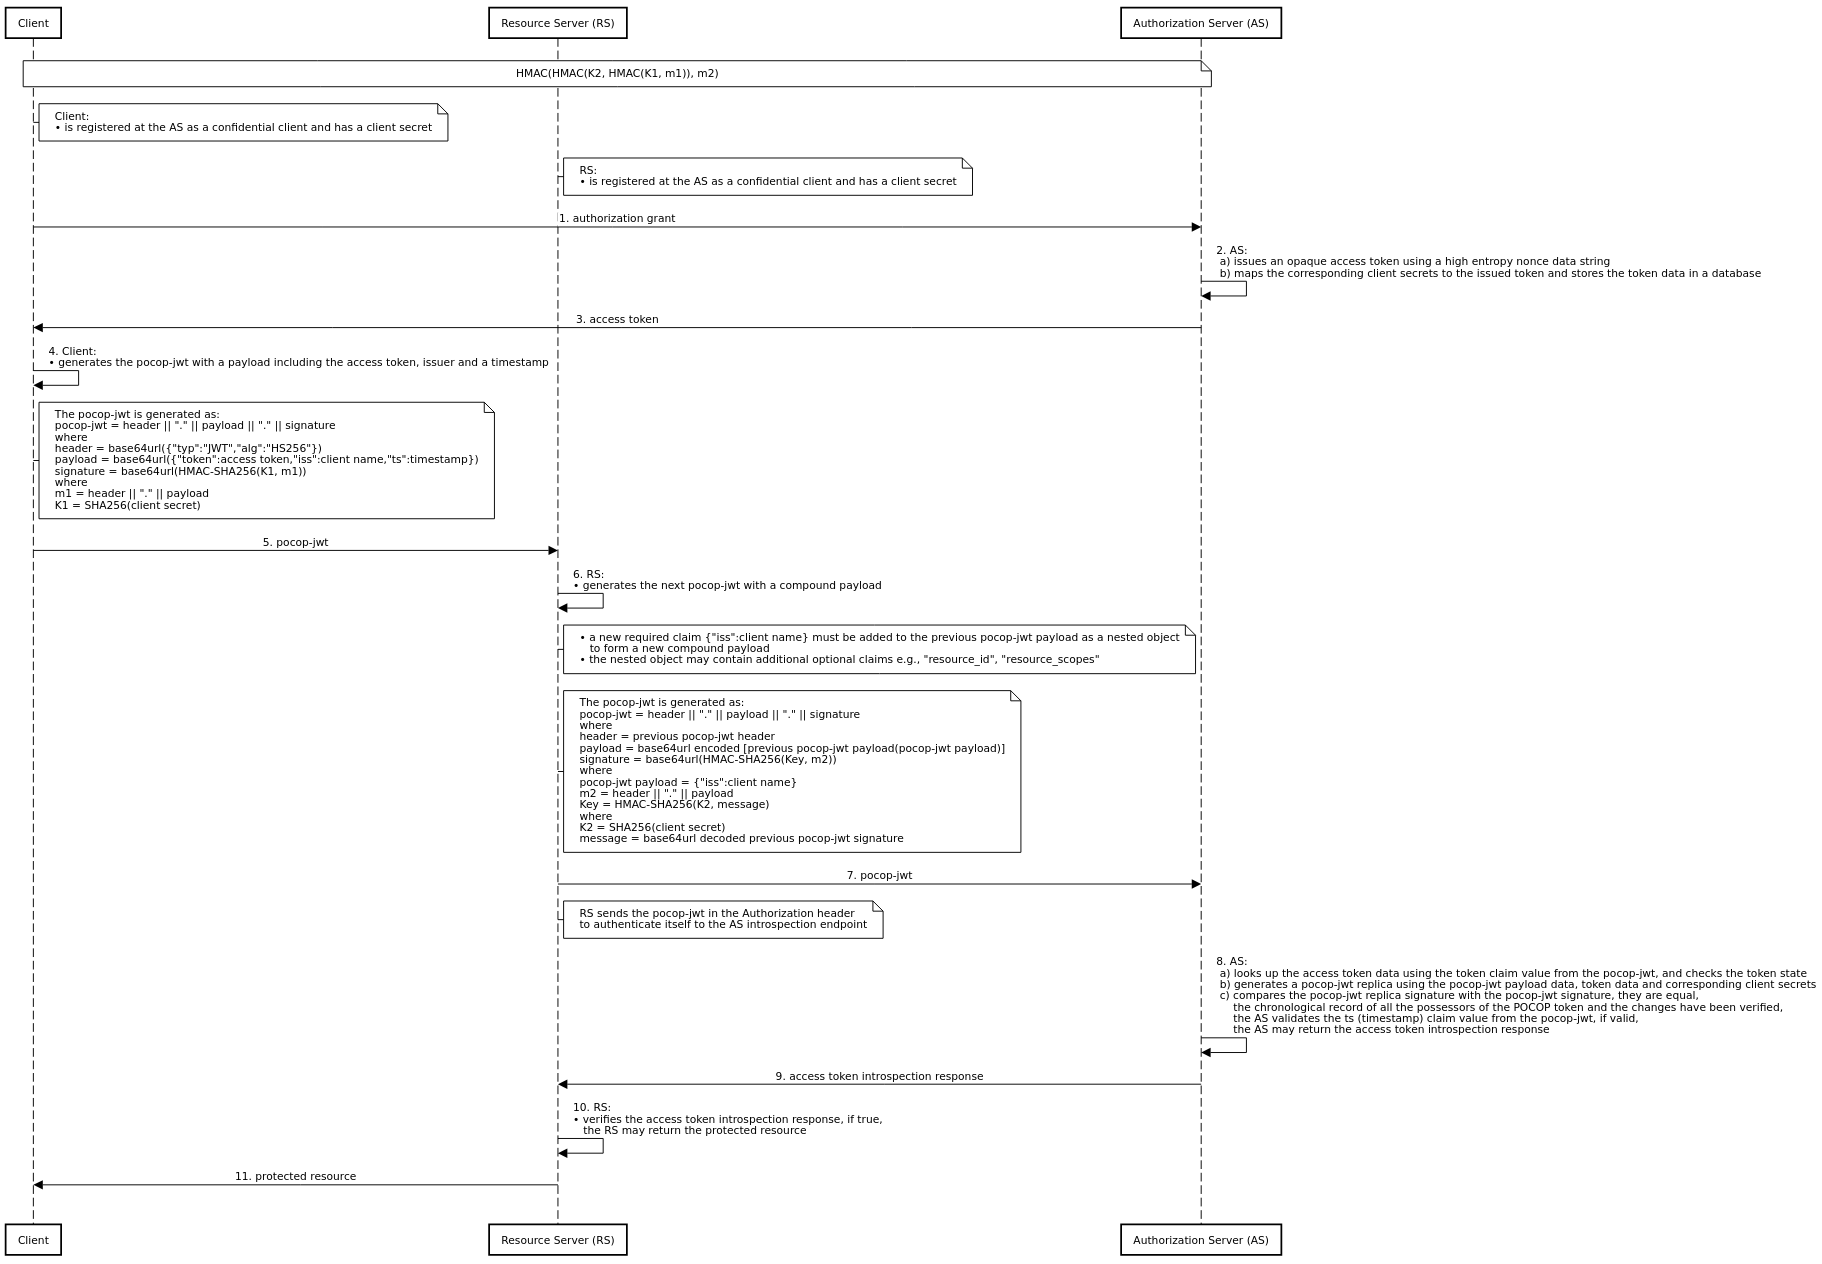
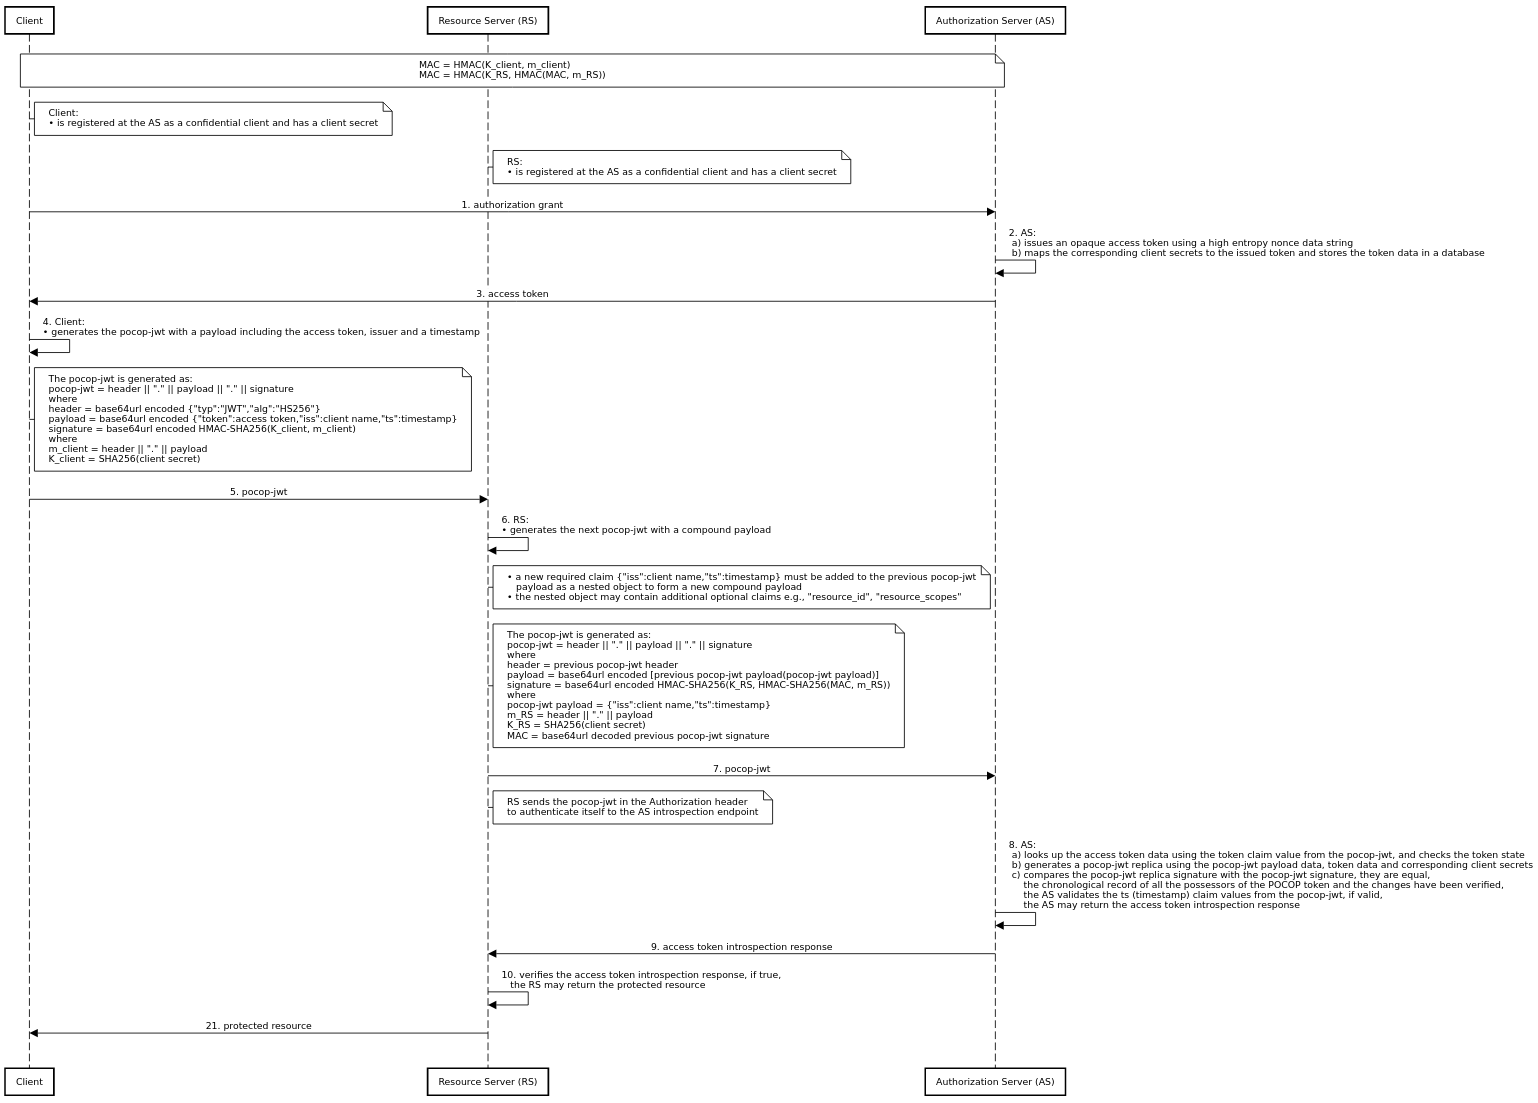
cleanup

diff --git a/README.md b/README.md
@@ -125,7 +125,7 @@ Healthcare and enterprise cross-domain services e.g. email, file sharing, instan
 
 ## Abstract
 
-This document introduces POCOP tokens based on a nested, chained HMACs construction to provide chained authenticity and integrity protection.
+This document introduces a POCOP mechanism based on a nested, chained HMACs construction to provide chained authenticity and integrity protection.
 
 ## Introduction
 
@@ -135,68 +135,65 @@ Bearer tokens are vulnerable at rest and in transit when an attacker is able to 
 
 **Chained proof-of-possession (authenticity)**
 
-HMAC(K<sub><i>3</i></sub>, HMAC(K<sub><i>2</i></sub>, HMAC(K<sub><i>1</i></sub>, m<sub><i>1</i></sub>)))
+MAC = HMAC(K<sub><i>3</i></sub>, HMAC(K<sub><i>2</i></sub>, HMAC(K<sub><i>1</i></sub>, m<sub><i>1</i></sub>)))
 
 **Chained message checksum (integrity protection)**
 
-HMAC(HMAC(HMAC(K<sub><i>1</i></sub>, m<sub><i>1</i></sub>), m<sub><i>2</i></sub>, m<sub><i>3</i></sub>))
+MAC = HMAC(HMAC(HMAC(K<sub><i>1</i></sub>, m<sub><i>1</i></sub>), m<sub><i>2</i></sub>, m<sub><i>3</i></sub>))
 
 **Chained authenticity and integrity protection**
 
-These nested, chained HMACs constructions applied on tokens or cookies may be used to implement both new authorization protocols and to enhance existing ones.
+MAC = HMAC(K<sub><i>RS2</i></sub>, HMAC(HMAC(K<sub><i>RS1</i></sub>, HMAC(HMAC(K<sub><i>client</i></sub>, m<sub><i>client</i></sub>), m<sub><i>RS1</i></sub>)), m<sub><i>RS2</i></sub>))
 
-**HMACs example of AS, client, RS1 and RS2 authenticity and integrity protection chaining**
+broken down into individual MACs
 
-* chained authenticity
+MAC = HMAC(K<sub><i>client</i></sub>, m<sub><i>client</i></sub>)
+MAC = HMAC(K<sub><i>RS1</i></sub>, HMAC(MAC, m<sub><i>RS1</i></sub>))
+MAC = HMAC(K<sub><i>RS2</i></sub>, HMAC(MAC, m<sub><i>RS2</i></sub>))
 
-MAC<sub><i>RS2</i></sub> = HMAC(K<sub><i>RS2</i></sub>, HMAC(K<sub><i>RS1</i></sub>, HMAC(K<sub><i>client</i></sub>, NONCE<sub><i>AS</i></sub>)))
-
-* chained integrity protection compatible with Macaroons
-
-MAC =  HMAC(HMAC(HMAC(MAC<sub><i>RS2</i></sub>, NONCE<sub><i>AS</i></sub>), MAC<sub><i>client</i></sub> \|\| data<sub><i>client</i></sub>), MAC<sub><i>RS1</i></sub> \|\| data<sub><i>RS1</i></sub>)
-
-* chained authenticity and integrity protection table
-
-| Possessor | Public data | MAC route | MAC data
-| --- | --- | --- | --- |
-| AS| NONCE<sub><i>AS</i></sub> | | MAC = HMAC(MAC<sub><i>RS2</i></sub>, NONCE<sub><i>AS</i></sub>)
-| client | MAC<sub><i>client</i></sub> | MAC<sub><i>client</i></sub> = HMAC(K<sub><i>client</i></sub>, NONCE<sub><i>AS</i></sub>)
-| client | data<sub><i>client</i></sub> | | MAC = HMAC(MAC, MAC<sub><i>client</i></sub> \|\| data<sub><i>client</i></sub>)
-| RS1 | MAC<sub><i>RS1</i></sub> | MAC<sub><i>RS1</i></sub> = HMAC(K<sub><i>RS1</i></sub>, MAC<sub><i>client</i></sub>)
-| RS1 | data<sub><i>RS1</i></sub> | | MAC = HMAC(MAC, MAC<sub><i>RS1</i></sub> \|\| data<sub><i>RS1</i></sub>)
-| RS2 | | MAC<sub><i>RS2</i></sub> = HMAC(K<sub><i>RS2</i></sub>, MAC<sub><i>RS1</i></sub>)
-
-WARNING: The authenticity of public data is lost!
-
-**Other hybrid chain HMACs constructions to protect authenticity and integrity**
-
-HMAC(HMAC(K<sub><i>3</i></sub>, HMAC(HMAC(K<sub><i>2</i></sub>, HMAC(K<sub><i>1</i></sub>, m<sub><i>1</i></sub>)), m<sub><i>2</i></sub>)), m<sub><i>3</i></sub>)
-
-HMAC(K<sub><i>3</i></sub>, HMAC(HMAC(K<sub><i>2</i></sub>, HMAC(HMAC(K<sub><i>1</i></sub>, m<sub><i>1</i></sub>), m<sub><i>2</i></sub>)), m<sub><i>3</i></sub>))
+These nested, chained HMACs constructions applied on tokens, claims, tickets or cookies may be used to implement both new authorization protocols and to enhance existing ones.
 
 ## Use Patterns
 
-OAuth2 and POCOP tokens.
+### OAuth2 POCOP Tokens
 
-### OAuth2 POCOP Access Tokens
+**OAuth2 POCOP Access Tokens**
 
 ![pocop-access-tokens](./images/pocop-access-tokens.png)
 
-**Prerequisites**
-
-**Steps**
-
-### OAuth2 POCOP Refresh Tokens
+**OAuth2 POCOP Refresh Tokens**
 
 ![pocop-refresh-tokens](./images/pocop-refresh-tokens.png)
 
-**Prerequisites**
+### UMA POCOP Tickets
 
-**Steps**
+Chained Resource Servers (TBD)
+
+### Macaroons POCOP Claims
+
+The individual messages (m<sub><i>client</i></sub>, m<sub><i>RS1</i></sub>, m<sub><i>RS2</i></sub>) consist of Macaroons-first-party-caveats-like chained claims, using respective K<sub><i>client</i></sub>, K<sub><i>RS1</i></sub>, K<sub><i>RS2</i></sub> root keys.
+
+MAC<sub><i>m_client</i></sub> = HMAC(K<sub><i>client</i></sub>, claim1<sub><i>client</i></sub>)
+MAC<sub><i>m_client</i></sub> = HMAC(MAC<sub><i>m_client</i></sub>, claim2<sub><i>client</i></sub>)
+MAC<sub><i>m_client</i></sub> = HMAC(MAC<sub><i>m_client</i></sub>, claim3<sub><i>client</i></sub>)
+MAC<sub><i>m_client</i></sub> = HMAC(MAC<sub><i>m_client</i></sub>, claim4<sub><i>client</i></sub>)
+
+MAC<sub><i>m_RS1</i></sub> = HMAC(K<sub><i>RS1</i></sub>, claim1<sub><i>RS1</i></sub>)
+MAC<sub><i>m_RS1</i></sub> = HMAC(MAC<sub><i>m_RS1</i></sub>, claim2<sub><i>RS1</i></sub>)
+
+MAC<sub><i>m_RS2</i></sub> = HMAC(K<sub><i>RS2</i></sub>, claim1<sub><i>RS2</i></sub>)
+MAC<sub><i>m_RS2</i></sub> = HMAC(MAC<sub><i>m_RS2</i></sub>, claim2<sub><i>RS2</i></sub>)
+MAC<sub><i>m_RS2</i></sub> = HMAC(MAC<sub><i>m_RS2</i></sub>, claim3<sub><i>RS2</i></sub>)
+
+The MAC<sub><i>m_client</i></sub>, MAC<sub><i>m_RS1</i></sub> and MAC<sub><i>m_RS2</i></sub> are chained using the POCOP mechanism.
+
+MAC = HMAC(K<sub><i>client</i></sub>, MAC<sub><i>m_client</i></sub>)
+MAC = HMAC(K<sub><i>RS1</i></sub>, HMAC(MAC, MAC<sub><i>m_RS1</i></sub>))
+MAC = HMAC(K<sub><i>RS2</i></sub>, HMAC(MAC, MAC<sub><i>m_RS2</i></sub>))
 
 ## Conclusion
 
-## Future Work
+(TBD)
 
 # Authorization-Enhanced Mail System
 
